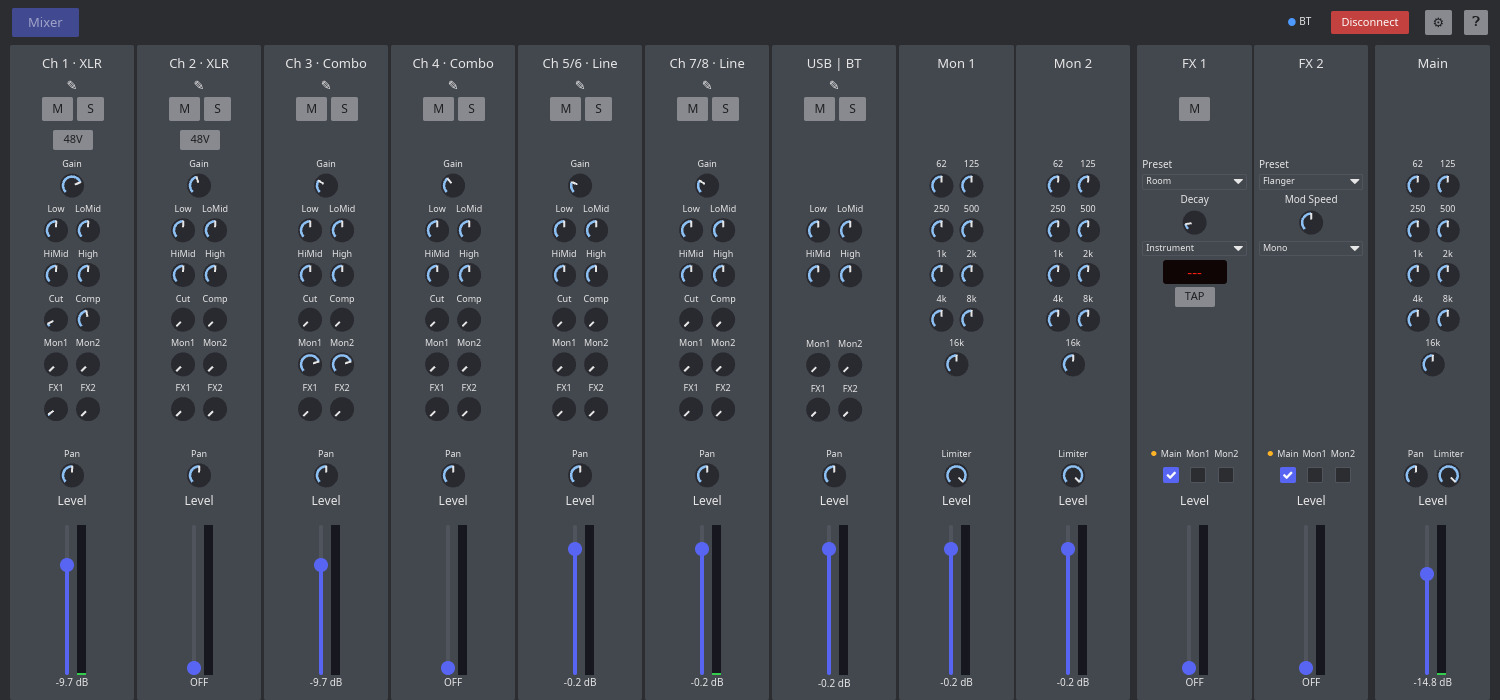
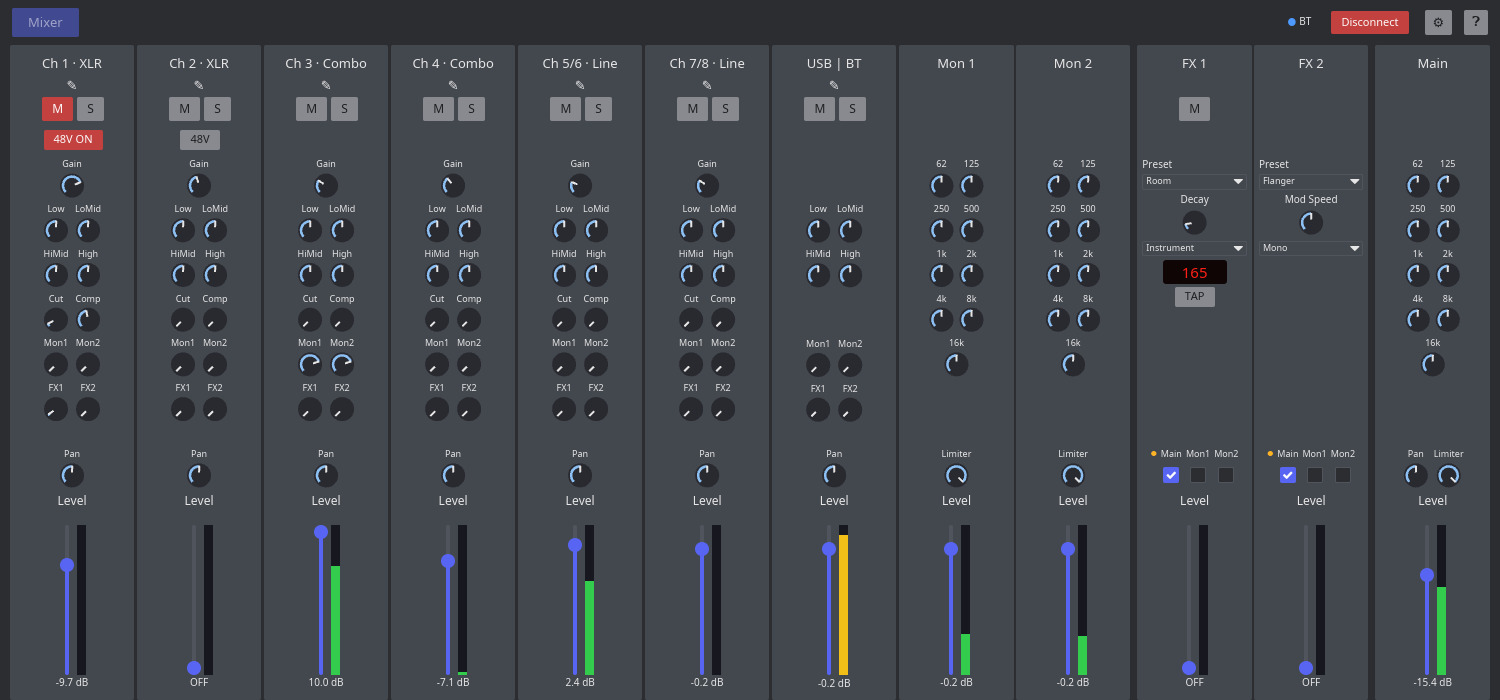
Ch1 EQ knob moves preserve band freq/Q (probe-verified dump decode)
- decode_peq_bands: ch1 PEQ freq/Q from the state dump (parked-bit layout, probe-verified; docs/flow8-midi-implementation.md 2.3.6)
- eq knob payload reuses the band's real freq/Q for ch1 (q_to_sel6); ch2-7 stay at factory defaults
- unit test pins decode against probe dump bytes; probe_eq updated for the Q=1.0 parking probe
- DEV_MANUAL note updated; README screenshot refreshed

diff --git a/src/service/sysex_parser.rs b/src/service/sysex_parser.rs
@@ -447,6 +447,62 @@ fn decode_float(data: &[u8], param: &FloatParam) -> Option<f32> {
     Some(value)
 }
 
+/// ch1 PEQ band layout (USB dump, probe-verified 2026-11-17 — see
+/// docs/flow8-midi-implementation.md §2.3.6). Frequencies are u16 LE with
+/// the low byte's bit 7 parked elsewhere; Q is f32 LE with each byte's
+/// bit 7 parked elsewhere. Offsets are ch1-specific — ch2–7 sit at
+/// irregular strides and are not decoded yet.
+const PEQ_CH1_FREQ: [[usize; 2]; 4] = [
+    [0x75A, 0x75B],
+    [0x75C, 0x75D],
+    [0x75E, 0x75F],
+    [0x761, 0x762],
+];
+/// (byte, bit) where each band's freq low-byte bit 7 lives.
+const PEQ_CH1_FREQ_PARK: [(usize, u8); 4] = [(0x759, 0), (0x759, 2), (0x760, 0), (0x759, 4)];
+const PEQ_CH1_Q: [[usize; 4]; 4] = [
+    [0x763, 0x764, 0x765, 0x766],
+    [0x768, 0x769, 0x76A, 0x76B],
+    [0x76C, 0x76D, 0x76F, 0x770],
+    [0x771, 0x772, 0x773, 0x774],
+];
+/// (byte, bit) where each Q byte's bit 7 lives; None = byte 3, whose bit 7
+/// is clear for every reachable Q (0.0…10.3) and never parked.
+const PEQ_CH1_Q_PARK: [[Option<(usize, u8)>; 4]; 4] = [
+    [Some((0x760, 3)), Some((0x760, 2)), Some((0x760, 4)), None],
+    [Some((0x767, 0)), Some((0x767, 1)), Some((0x767, 2)), Some((0x767, 3))],
+    [Some((0x767, 4)), Some((0x767, 5)), Some((0x76E, 0)), None],
+    [Some((0x76E, 2)), Some((0x76E, 3)), Some((0x76E, 4)), None],
+];
+
+/// Decode one ch1 PEQ band's (freq Hz, Q) from a USB state dump. None when
+/// bytes are missing or the value is implausible (parked-bit corruption).
+fn decode_peq_band(data: &[u8], band: usize) -> Option<(u16, f32)> {
+    let bit = |byte: usize, b: u8| data.get(byte).is_some_and(|v| v & (1 << b) != 0);
+    let [lo, hi] = PEQ_CH1_FREQ[band];
+    let (park, pbit) = PEQ_CH1_FREQ_PARK[band];
+    let lo_b = *data.get(lo)? | if bit(park, pbit) { 0x80 } else { 0 };
+    let freq = u16::from(lo_b) | ((*data.get(hi)? as u16) << 8);
+    let mut q_bytes = [0u8; 4];
+    for (k, &off) in PEQ_CH1_Q[band].iter().enumerate() {
+        let set = PEQ_CH1_Q_PARK[band][k].is_some_and(|(pb, pb2)| bit(pb, pb2));
+        q_bytes[k] = (data.get(off).copied().unwrap_or(0) & 0x7F) | if set { 0x80 } else { 0 };
+    }
+    let q = f32::from_le_bytes(q_bytes);
+    // reachable device Qs: 0.0 (off) or 0.3…10.3; anything else means a
+    // stray park bit corrupted the decode
+    if q != 0.0 && !(0.25..=10.5).contains(&q) {
+        return None;
+    }
+    Some((freq, q))
+}
+
+/// ch1 per-band (freq Hz, Q) from a state dump; None entries mean that band
+/// is not usable (ch2–7 have no decode yet and stay at factory defaults).
+pub fn decode_peq_bands(data: &[u8]) -> [Option<(u16, f32)>; 4] {
+    core::array::from_fn(|band| decode_peq_band(data, band))
+}
+
 fn db_to_cc(db: f32) -> u8 {
     if db < LEVEL_DB_MIN {
         return 0;
@@ -615,6 +671,9 @@ fn apply_channel_eq(dump: &SysExDump, controller: &mut FLOW8Controller) -> usize
             count += 1;
         }
     }
+
+    // ch1 PEQ freq/Q (ch2–7 offsets not calibrated yet)
+    controller.channels[0].peq_bands = decode_peq_bands(data);
 
     count
 }
@@ -916,4 +975,34 @@ pub fn format_hex_dump(data: &[u8]) -> String {
         out.push_str(&format!("{:04X}: {:48} | {}\n", i * 16, hex.join(" "), ascii));
     }
     out
+}
+
+#[cfg(test)]
+mod tests {
+    use super::*;
+
+    #[test]
+    fn peq_ch1_decode_matches_probe_dump() {
+        // real bytes from calibration-data/probe-dump-1.hex (probe8, fresh
+        // device state): freqs 100/500/2000/12000, Qs 0.0/1.0/1.0/0.0
+        let mut data = vec![0u8; 0x775];
+        data[0x759] = 0x14;
+        data[0x75A..=0x762]
+            .copy_from_slice(&[0x64, 0x00, 0x74, 0x01, 0x50, 0x07, 0x01, 0x60, 0x2e]);
+        data[0x763..=0x774].copy_from_slice(&[
+            0x00, 0x00, 0x00, 0x00, 0x04, 0x00, 0x00, 0x00, 0x3f, 0x00, 0x00, 0x01, 0x00, 0x3f,
+            0x00, 0x00, 0x00, 0x00,
+        ]);
+        let bands = decode_peq_bands(&data);
+        assert_eq!(bands[0], Some((100, 0.0)));
+        assert_eq!(bands[1], Some((500, 1.0)));
+        assert_eq!(bands[2], Some((2000, 1.0)));
+        assert_eq!(bands[3], Some((12000, 0.0)));
+
+        // band1 Q=1.0 state (probe8 dump 2): b2's bit7 parked at 0x760 bit4
+        data[0x760] = 0x11;
+        data[0x766] = 0x3f;
+        let bands = decode_peq_bands(&data);
+        assert_eq!(bands[0], Some((100, 1.0)));
+    }
 }

diff --git a/src/bin/probe_eq.rs b/src/bin/probe_eq.rs
@@ -21,11 +21,9 @@ pub mod model {
     }
 }
 
-/// Verify the ChannelMaster (0x06) dst ids for the remaining channel sends of
-/// ch1: Mon1 (0x0A?), Mon2 (0x0B?), FX2 (0x0D?). FX1 = 0x0C is already
-/// verified. Dump diffs of calibration-data/probe-dump-*.hex identify which
-/// dump bytes each dst write lands on; final writes restore the −144 (off)
-/// baseline.
+/// Pin the Q=1.0 (byte2 0x80) parking spots for band 1 and band 4 — the two
+/// bands whose Q byte2 parking is still unverified (band 1 Q=1.0 is the
+/// official app's default, so it must decode right). Restores Q=0.0.
 fn main() {
     let (st, _sr) = mpsc::channel();
     let (sn, _nr) = mpsc::channel();
@@ -68,32 +66,27 @@ fn main() {
         ble::send_dump_trigger(conn).expect("dump trigger");
         std::thread::sleep(Duration::from_secs(8));
     };
+    let peq = |conn: &ble::BleConnection, band: u8, freq: u16, q_byte: u8, label: &str| {
+        ble::send_ble_struct_command(
+            conn,
+            0x09,
+            &[0, band, (freq >> 8) as u8, (freq & 0xFF) as u8, q_byte, 127],
+        )
+        .expect(label);
+        println!("{} sent", label);
+        std::thread::sleep(Duration::from_secs(3));
+    };
 
     dump(&conn); // dump1: baseline
 
-    ble::send_channel_master(&conn, 0, 0x0A, 10.0).expect("W1");
-    println!("W1 sent: dst 0x0A +10 dB");
-    std::thread::sleep(Duration::from_secs(3));
-    dump(&conn); // dump2
+    peq(&conn, 0, 100, 8, "W1 band1 Q=1.0"); // dump2
+    dump(&conn);
+    peq(&conn, 3, 12000, 8, "W2 band4 Q=1.0"); // dump3
+    dump(&conn);
 
-    ble::send_channel_master(&conn, 0, 0x0B, 10.0).expect("W2");
-    println!("W2 sent: dst 0x0B +10 dB");
-    std::thread::sleep(Duration::from_secs(3));
-    dump(&conn); // dump3
-
-    ble::send_channel_master(&conn, 0, 0x0D, 10.0).expect("W3");
-    println!("W3 sent: dst 0x0D +10 dB");
-    std::thread::sleep(Duration::from_secs(3));
+    peq(&conn, 0, 100, 0, "R1 band1 Q=0.0");
+    peq(&conn, 3, 12000, 0, "R2 band4 Q=0.0");
     dump(&conn); // dump4
-
-    // restore: all three baseline sends are −144 (off)
-    ble::send_channel_master(&conn, 0, 0x0A, -144.0).expect("R1");
-    std::thread::sleep(Duration::from_secs(2));
-    ble::send_channel_master(&conn, 0, 0x0B, -144.0).expect("R2");
-    std::thread::sleep(Duration::from_secs(2));
-    ble::send_channel_master(&conn, 0, 0x0D, -144.0).expect("R3");
-    std::thread::sleep(Duration::from_secs(2));
-    dump(&conn); // dump5
 
     println!("done");
 }

diff --git a/src/main.rs b/src/main.rs
@@ -382,14 +382,14 @@ fn send_ble_knob(controller: &FLOW8Controller, message: &InterfaceMessage) -> bo
                 "geq",
             ))
         }
-        InterfaceMessage::EqLow(ch, v) => Some((0x09, peq_band_payload(ch_id(ch), 0, v), "eq low")),
+        InterfaceMessage::EqLow(ch, v) => Some((0x09, peq_band_payload(controller, ch, 0, v), "eq low")),
         InterfaceMessage::EqLowMid(ch, v) => {
-            Some((0x09, peq_band_payload(ch_id(ch), 1, v), "eq low mid"))
+            Some((0x09, peq_band_payload(controller, ch, 1, v), "eq low mid"))
         }
         InterfaceMessage::EqHiMid(ch, v) => {
-            Some((0x09, peq_band_payload(ch_id(ch), 2, v), "eq hi mid"))
+            Some((0x09, peq_band_payload(controller, ch, 2, v), "eq hi mid"))
         }
-        InterfaceMessage::EqHi(ch, v) => Some((0x09, peq_band_payload(ch_id(ch), 3, v), "eq hi")),
+        InterfaceMessage::EqHi(ch, v) => Some((0x09, peq_band_payload(controller, ch, 3, v), "eq hi")),
         InterfaceMessage::SendMon1(ch, v) => Some((
             0x06,
             vec![ch_id(ch), 0x0A, ble::db_to_fix8(ble::send_cc_to_db(v))],
@@ -431,15 +431,19 @@ fn send_ble_knob(controller: &FLOW8Controller, message: &InterfaceMessage) -> bo
 }
 
 /// Channel PEQ (0x09) band-gain payload: [id][band][be16 freq][Q][sel4 gain].
-/// Frequency and Q go out at the factory defaults — see ble::PEQ_Q_BYTE.
-fn peq_band_payload(id: u8, band: u8, cc: u8) -> Vec<u8> {
-    let freq = ble::PEQ_BAND_FREQ[band as usize];
+/// ch1 reuses the band's decoded freq/Q from the state dump; ch2–7 (and ch1
+/// before a dump) send the factory defaults — see ble::PEQ_Q_BYTE.
+fn peq_band_payload(controller: &FLOW8Controller, ch: u8, band: u8, cc: u8) -> Vec<u8> {
+    let (freq, q_byte) = match controller.channels[ch as usize].peq_bands[band as usize] {
+        Some((f, q)) => (f, ble::q_to_sel6(q)),
+        None => (ble::PEQ_BAND_FREQ[band as usize], ble::PEQ_Q_BYTE),
+    };
     vec![
-        id,
+        controller.channels[ch as usize].id,
         band,
         (freq >> 8) as u8,
         (freq & 0xFF) as u8,
-        ble::PEQ_Q_BYTE,
+        q_byte,
         ble::db_range_to_sel4(cc, sysex_parser::EQ_MIN, sysex_parser::EQ_MAX),
     ]
 }

diff --git a/src/service/ble.rs b/src/service/ble.rs
@@ -1070,13 +1070,20 @@ pub fn db_range_to_sel4(cc: u8, min_db: f32, max_db: f32) -> u8 {
 /// fix8 selector 6 (Q): linear 0.1 steps from 0.3 → byte 8 = Q 1.0.
 pub const GEQ_Q_BYTE: u8 = 8;
 
-/// Channel PEQ (0x09) sends use the factory-default band frequency and Q=1.0
-/// (byte 8, same selector scale as GEQ) — the dump decode of the per-band
-/// freq/Q bytes is unfinished.
-/// shortcut: a knob gain move resets that band's freq/Q to the defaults,
-/// upgrade when the PEQ freq/Q dump decode lands.
+/// Channel PEQ (0x09) factory defaults, used for ch2–7 and ch1 before a
+/// state-dump decode; ch1 knobs reuse the band's real freq/Q from
+/// channels[ch].peq_bands (q_to_sel6 re-encodes it).
 pub const PEQ_Q_BYTE: u8 = 8;
 pub const PEQ_BAND_FREQ: [u16; 4] = [100, 500, 2000, 12000];
+
+/// Q read back from the dump → fix8 selector 6 byte (inverse of the
+/// 0.3 + (byte−1)·0.1 scale); byte 0 = Q 0.0. Verified 1.0→8, 0.8→6, 2.0→18.
+pub fn q_to_sel6(q: f32) -> u8 {
+    if q <= 0.0 {
+        return 0;
+    }
+    ((((q - 0.3) * 10.0).round() as i32) + 1).clamp(1, 101) as u8
+}
 
 /// GEQ bands are fixed-frequency on the FLOW 8 (OutputChannel.GEQ_DEFAULT_FREQ
 /// in the official app); Q is fixed 1.0.

diff --git a/src/model/channels.rs b/src/model/channels.rs
@@ -67,6 +67,10 @@ pub struct Channel {
     pub audio_connection: AudioConnection,
     pub channel_strip: BasicChannelStrip,
     pub four_band_eq: FourBandEQ,
+    /// ch1 only: per-PEQ-band (freq Hz, Q) decoded from the state dump;
+    /// None = not decoded yet (ch2–7 never are). Lets EQ knob moves reuse
+    /// the band's real freq/Q in the op 0x09 payload instead of defaults.
+    pub peq_bands: [Option<(u16, f32)>; 4],
     pub sends: ChannelSends,
     /// live output level (linear 0..1) from the meter stream
     pub meter: f32,
@@ -98,6 +102,7 @@ impl Default for Channel {
             audio_connection: AudioConnection::UsbBt,
             channel_strip: BasicChannelStrip::default(),
             four_band_eq: FourBandEQ::default(),
+            peq_bands: [None; 4],
             sends: ChannelSends::default(),
             meter: 0.0,
             meter_target: 0.0,

diff --git a/docs/flow8-midi-implementation.md b/docs/flow8-midi-implementation.md
@@ -270,6 +270,48 @@ The recurring subsequence `00 00 10 43` encodes the float data bytes of **-144.0
 
 The `22` and `08` bytes within the pattern are MSB bytes with specific bits set to restore the high bit of `43` → `C3` on their associated data bytes. When a parameter deviates from the default (e.g., a fader is moved), the corresponding bytes differ from this baseline pattern.
 
+#### 2.3.6 Channel PEQ Bands — Memory Layout (ch1, probe-verified 2026-11-17)
+
+Verified on device with 0x09 writes + USB dump diffs (probe_eq.rs runs, 7 dumps
+each): EQ gain region 0x074B–0x074F, then the per-band frequency and Q fields.
+Frequency = u16 little-endian with **bit 7 of the low byte parked** at a
+scattered (byte, bit) spot; Q = f32 little-endian with **each byte's bit 7
+parked** the same way.
+
+| Band | Freq lo/hi | Freq lo bit7 parked at | Q f32 bytes | Q bit7 parking |
+|------|------------|------------------------|-------------|----------------|
+| 1 | 0x075A/0x075B | 0x0759 bit 0 | 0x0763–0x0766 | 0x0760 bits 3 (b0), 2 (b1) |
+| 2 | 0x075C/0x075D | 0x0759 bit 2 | 0x0768–0x076B | 0x0767 bits 0–3 (b0..b3, bit2 verified) |
+| 3 | 0x075E/0x075F | 0x0760 bit 0 | 0x076C, 0x076D, 0x076F, 0x0770 (0x076E is a gap byte) | b0/b1 bit7 → 0x0767 bits 5/4; **b2 bit7 → 0x076E bit 0** |
+| 4 | 0x0761/0x0762 | 0x0760 bit 4 | 0x0771–0x0774 | 0x076E bits 2/3 (b0, b1) |
+
+Notes:
+
+* Q values on the wire are quantized to 0.1 steps (fix8 sel6: `Q = 0.3 +
+  (byte−1)·0.1`, byte 0 = Q 0.0), so among reachable Q values the b0/b1
+  bit7s are always set together — the bit order inside a pair is
+  unobservable and decode-safe either way. b2's bit7 is set only at Q 1.0
+  (0x80) and Q 1.9 (0xF3); b3's never (0x3E/0x3F/0x40).
+* Band 3's Q at Q=1.0 stores `00 00 01 00` — the 0x80 of byte 2 lives as
+  bit 0 of gap byte 0x076E, which is what made this band look undecodable
+  before the probe.
+* Device baseline oddity: ch1 band 4 came from the factory at 12000 Hz
+  with its parked bit CLEAR (decodes as 11872); our own 0x09 writes store
+  the parked bit consistently, so treat 11872/12000 as equivalent or
+  re-anchor on the next full dump.
+* EQ gain region (0x074B–0x074F, ch1) is 5 bytes — not yet decoded to a
+  float form; the CHANNEL_EQ gain tables already decode it via the
+  calibrated FloatParam scheme.
+* Other channels' bands sit at non-uniform strides (ch1→ch2 +0x3F,
+  ch2→ch3 +0x83, …); per-channel offset tables would follow the
+  FloatParam calibration pattern.
+* The **BLE handshake state dump** (compact 0x38 chunks at session start,
+  ~512 bytes over 4 chunks) carries each channel's PEQ freqs as plain
+  BE16 plus per-band Q fix8 bytes inline — a far simpler decode source
+  than this USB dump layout if freq/Q read-back is ever needed for all
+  channels at once.
+
+
 ***
 
 ## 3. BLE (Bluetooth Low Energy) — Proprietary Protocol

diff --git a/docs/DEV_MANUAL.md b/docs/DEV_MANUAL.md
@@ -462,9 +462,10 @@ Notes:
 * Still limited on purpose:
   * Channel EQ bands (0x09) — a knob move sends the band's gain with the
     **factory-default frequency and Q**, so it resets that band's freq/Q.
-    The per-band freq/Q bytes in the state dump are only partially decoded
-    (gain is decoded; freq needs the parked-bit layout; Q encoding of band 3
-    is unresolved). Upgrade when the dump decode of freq/Q lands.
+    ch1 preserves freq/Q: the per-band layout is decoded
+    (`flow8-midi-implementation.md` §2.3.6) and the knob payload reuses the
+    band's real values from the last state dump. ch2–7 still send the
+    factory defaults — their offsets are not calibrated yet.
 * `src/service/ble.rs` holds the encoders + a `knob_tests` unit test
   pinning them to the Kotlin conversions (`floatToFix8` selectors 1–6).
 
